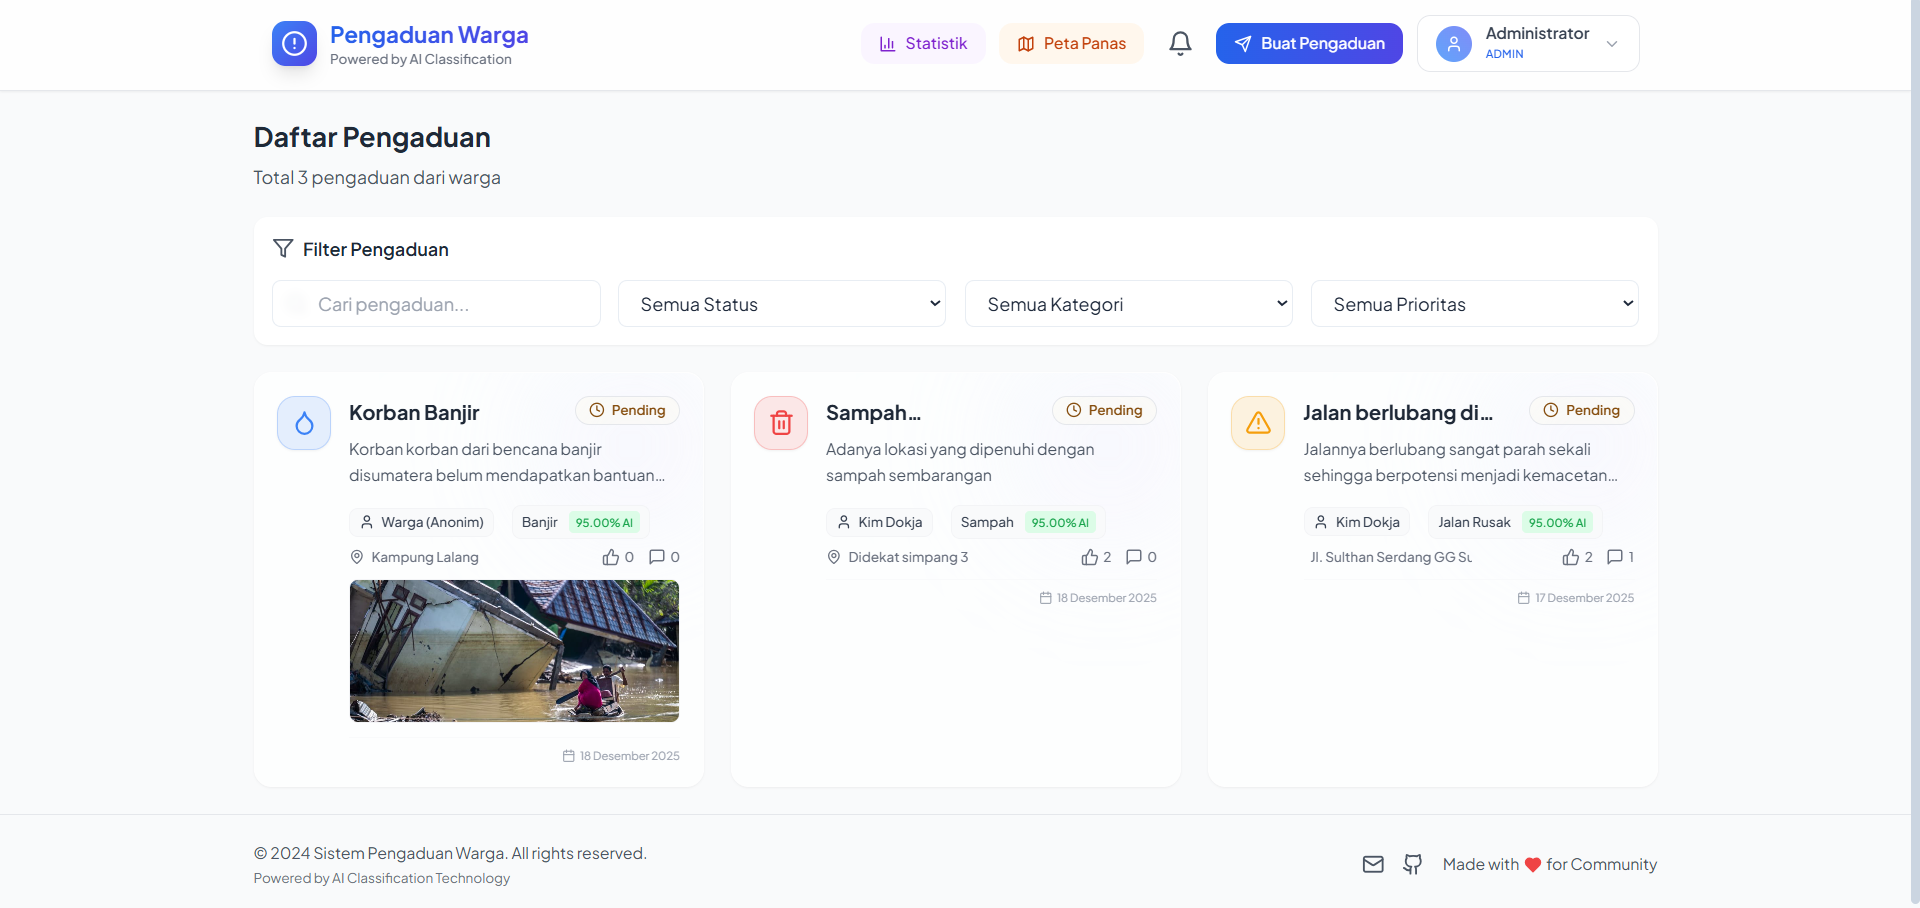
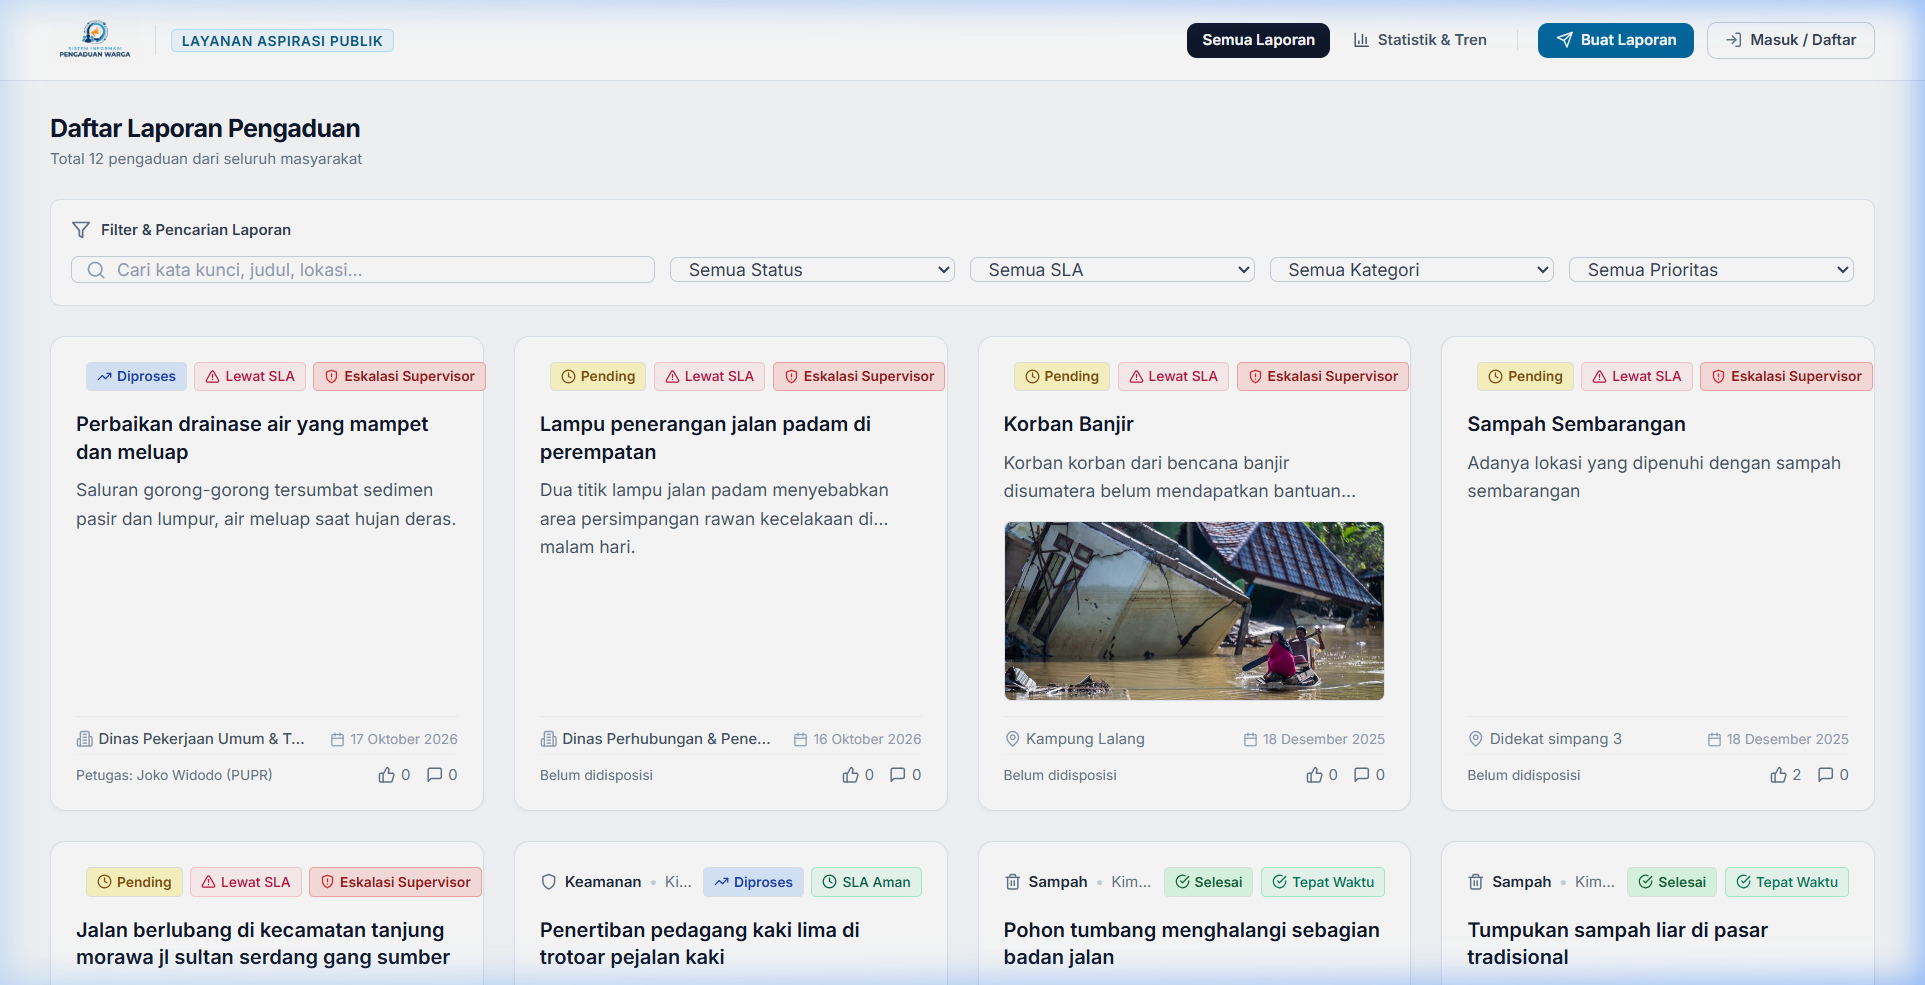
docs: update README and add preview assets

diff --git a/README.md b/README.md
@@ -1,113 +1,143 @@
-# Sistem Pengaduan Warga (SIPW)
+# Sistem Informasi Pengaduan Warga (SIPW)
 
-Sistem Informasi Pengaduan Warga modern dengan antarmuka **Premium Glassmorphism**, klasifikasi otomatis berbasis AI, dan visualisasi data **Heatmap**. Aplikasi ini memudahkan warga melaporkan masalah lingkungan (sampah, jalan rusak, banjir, dll) secara transparan dan responsif.
+<p align="center">
+  <img src="./assets/images/logo.png" alt="Logo SIPW" width="220" />
+</p>
 
-![Banner Preview](https://via.placeholder.com/1200x600?text=Sistem+Pengaduan+Warga+Preview)
+Sistem Informasi Pengaduan Warga (SIPW) adalah aplikasi web pelayanan publik untuk pelaporan, penelusuran status, disposisi tugas, dan pemantauan Service Level Agreement (SLA) penanganan masalah lingkungan perkotaan. 
 
-## 🚀 Fitur Unggulan
-
-### 🌟 User Experience (Warga)
-- **Civic UI (Taste Skill)**: Desain utilitas publik yang bersih, profesional, modern, bebas gradien berlebihan, dengan kontras keterbacaan tinggi.
-- **Timeline Kronologis Transparan**: Rekam jejak lengkap dari pelaporan, verifikasi, penugasan dinas, catatan perkembangan berkala, hingga bukti foto tindakan penyelesaian.
-- **Laporan Anonim Terlindungi**: Opsi anonim menjaga kerahasiaan identitas pelapor baik pada kartu laporan maupun jejak kronologi timeline.
-- **Pilihan Urgensi & Estimasi SLA**: Warga dapat melihat estimasi batas waktu penanganan secara transparan (24j - 120j).
-- **Pembukaan Kembali Laporan**: Warga dapat membuka kembali laporan yang selesai jika permasalahan di lapangan belum tuntas.
-- **Lokasi Presisi & Bukti Foto**: Pinpoint peta interaktif (Leaflet) dan upload foto kejadian dengan preview instan.
-
-### 🛡 Dashboard Operasional (Admin, Supervisor, & Petugas)
-- **SLA & Eskalasi Otomatis**: Sistem penghitungan batas waktu penanganan di backend dengan indikator aman, mendekati tenggat (< 12 jam), terlambat, dan auto-eskalasi ke Supervisor.
-- **Manajemen Disposisi & OPD**: Antrean disposisi cepat ke OPD (DLH, PUPR, DISHUB, SATPOL PP, dll) dan petugas lapangan disertai indikator beban kerja aktif (*workload balancing*).
-- **Tab Khusus Petugas ("Tugas Saya")**: Antarmuka terfokus bagi petugas untuk memperbarui progres penanganan, mencatat catatan internal/publik, dan mengunggah foto bukti penyelesaian.
-- **Audit Trail Pemindahan**: Riwayat lengkap aktor, waktu, catatan pengalihan, dan mutasi tugas tanpa menghapus riwayat lama.
-- **Heatmap Visual & Statistik**: Peta persebaran masalah lingkungan dan analitik kepatuhan SLA per departemen.
+Aplikasi ini menghubungkan masyarakat dengan instansi Organisasi Perangkat Daerah (OPD) seperti Dinas Lingkungan Hidup (DLH), Dinas Pekerjaan Umum (PUPR), Dinas Perhubungan (DISHUB), dan Satuan Polisi Pamong Praja (SATPOL PP).
 
 ---
 
-## 🛠 Teknologi yang Digunakan
+## Pratinjau Antarmuka
+
+### 1. Beranda & Daftar Laporan (Desktop Full-Width)
+Tata letak fluid hingga lebar 1720px dengan pembagian kolom adaptif, baris filter terpadu, dan kartu laporan yang terstruktur rapi.
+
+![Beranda Desktop](./assets/images/dashboard.png)
+
+### 2. Statistik & Tren Interaktif
+Grafik linier formal berbasis Recharts untuk memantau volume aduan masuk, laporan selesai, antrean proses, dan keterlambatan SLA dengan rentang waktu 7 hari hingga 12 bulan.
+
+![Statistik dan Tren](./assets/images/statistics.png)
+
+### 3. Kinerja Penanganan & Komparasi Antar-OPD
+Metrik rata-rata durasi penyelesaian (jam), rasio kepatuhan target SLA, serta diagram batang horizontal yang dapat diurutkan berdasarkan beban kerja atau tingkat ketuntasan.
+
+![Kinerja OPD](./assets/images/performance.png)
+
+### 4. Tampilan Mobile & Drawer Navigasi
+Dioptimalkan untuk layar ponsel (320px–430px) tanpa pergeseran horizontal (*zero overflow*), dilengkapi menu drawer samping dan kontrol formulir yang mudah disentuh.
+
+![Tampilan Mobile](./assets/images/mobile.png)
+
+---
+
+## Fitur Utama
+
+### Pelayanan Publik (Warga)
+- **Pelaporan Berbasis Peta & Bukti**: Penandaan titik lokasi dengan peta interaktif (Leaflet), alamat otomatis, dan unggah foto lampiran.
+- **Opsi Pelapor Anonim**: Melindungi identitas pelapor pada kartu laporan publik dan linimasa penanganan.
+- **Linimasa Kronologis**: Riwayat tahapan dari pelaporan, verifikasi, penugasan petugas, hingga bukti foto tindakan selesai.
+- **Keterbukaan SLA**: Menampilkan estimasi batas waktu penanganan secara transparan (24 jam hingga 120 jam sesuai tingkat urgensi).
+- **Pembukaan Kembali Laporan**: Warga dapat mengajukan pembukaan kembali jika kendala di lapangan belum tuntas.
+
+### Manajemen Operasional & Penugasan (Admin & Petugas)
+- **Pemantauan Batas Waktu SLA**: Klasifikasi otomatis status tenggat (*Aman*, *Mendekati Batas < 12 jam*, *Melewati SLA*, dan *Eskalasi Supervisor*).
+- **Disposisi Cepat ke OPD & Petugas**: Penugasan laporan ke dinas terkait dan petugas lapangan disertai pemantauan beban kerja aktif.
+- **Tab Khusus Petugas ("Tugas Saya")**: Antarmuka kerja bagi petugas untuk memperbarui progres, mencatat tindakan lapangan, dan mengunggah foto bukti penyelesaian.
+- **Audit Trail Pengalihan**: Pencatatan riwayat perpindahan tugas dan catatan internal antar-petugas.
+
+### Analisis Data & Aksesibilitas
+- **Grafik Tren Garis Linier**: Pilihan rentang waktu (7 Hari, 30 Hari, 90 Hari, 12 Bulan) dan opsi toggle kurva interpolasi halus vs garis linier presisi.
+- **Tabel Data Alternatif**: Mode tabel data terstruktur untuk pembaca layar (*screen reader*) sesuai standar aksesibilitas WCAG 2.1 AA.
+- **Peta Kepadatan Spasial (Heatmap)**: Pemetaan sebaran konsentrasi masalah lingkungan di seluruh wilayah administratif.
+
+---
+
+## Tumpukan Teknologi
 
 ### Frontend
-- **React 18** (Vite-based)
-- **Tailwind CSS** (Styling & Responsive Design)
-- **Framer Motion** & **Glass UI** (Animations & Effects)
-- **React Leaflet** (Maps & Heatmap)
-- **Lucide React** (Modern Icons)
-- **Axios** (API Client)
+- **React 18** (`react-scripts`)
+- **Tailwind CSS 3** (Sistem token warna *Civic Navy*, *Azure*, dan semantik status)
+- **Recharts 2.15** (Visualisasi data analitik)
+- **React Leaflet & Leaflet** (Peta spasial dan geolokasi)
+- **Lucide React** (Ikon antarmuka)
+- **Axios** (Klien HTTP API)
 
 ### Backend
-- **Node.js** & **Express** (REST API)
-- **PostgreSQL** (Database Relasional)
-- **Cloudinary** (Cloud Storage untuk Gambar)
-- **JWT** (Secure Authentication)
-- **Multer** (File Handling)
+- **Node.js** & **Express.js** (REST API)
+- **PostgreSQL** (Database relasional dengan agregasi SQL kontinu `generate_series`)
+- **JSON Web Token (JWT)** & **Bcrypt** (Autentikasi dan otorisasi role)
+- **Multer** & **Cloudinary** (Manajemen berkas dan foto lampiran)
 
 ---
 
-## 📋 Prasyarat Instalasi
+## Persyaratan Sistem
 
-Pastikan komputer Anda sudah terinstall:
-- **Node.js** (v16+)
-- **PostgreSQL** (v13+)
+Pastikan perangkat telah terpasang:
+- **Node.js** (versi 16 atau lebih baru)
+- **PostgreSQL** (versi 13 atau lebih baru)
 - **Git**
 
 ---
 
-## ⚡ Panduan Instalasi Cepat
+## Panduan Instalasi & Menjalankan Aplikasi
 
-### 1. Clone Repository
+### 1. Salin Repositori
 ```bash
 git clone https://github.com/drexjgobgt/si-pengduan-warga.git
 cd si-pengduan-warga
 ```
 
 ### 2. Konfigurasi Backend
-Masuk ke folder backend dan install dependencies:
+Masuk ke direktori backend dan instal dependensi:
 ```bash
 cd backend
 npm install
 ```
 
-Buat file `.env` di dalam folder `/backend`:
+Buat file konfigurasi `.env` di dalam folder `/backend`:
 ```env
 PORT=5000
 NODE_ENV=development
 
-# Database Config
+# Konfigurasi Database PostgreSQL
 DB_HOST=localhost
 DB_PORT=5432
 DB_NAME=pengaduan_warga
 DB_USER=postgres
-DB_PASSWORD=password_db_anda
+DB_PASSWORD=password_database_anda
 
-# Authentication
-JWT_SECRET=rahasia_super_secure_bisa_diganti
+# Autentikasi
+JWT_SECRET=kunci_rahasia_jwt_anda
 
-# Cloudinary (Untuk Upload Gambar)
-CLOUDINARY_CLOUD_NAME=nama_cloud_anda
+# Penyimpanan Cloudinary (Foto Lampiran)
+CLOUDINARY_CLOUD_NAME=cloud_name_anda
 CLOUDINARY_API_KEY=api_key_anda
 CLOUDINARY_API_SECRET=api_secret_anda
 
-# Email Service (Opsional - SMTP Gmail)
+# Layanan Notifikasi Email (Opsional)
 EMAIL_HOST=smtp.gmail.com
 EMAIL_PORT=587
 EMAIL_USER=email_anda@gmail.com
-EMAIL_PASS=app_password_gmail
+EMAIL_PASS=app_password_anda
 ```
 
-**Setup Database & Migrasi:**
-Jalankan migrasi database otomatis (Pastikan PostgreSQL sudah berjalan):
+Jalankan skrip migrasi database:
 ```bash
-# Jalankan runner migrasi otomatis (mencakup upload, reset password, SLA, OPD & disposisi)
 node database/migrations/run-migration.js
 ```
 
-Jalankan Server:
+Jalankan server backend:
 ```bash
 npm run dev
-# Server berjalan di: http://localhost:5000
+# Server aktif pada port: http://localhost:5000
 ```
 
 ### 3. Konfigurasi Frontend
-Buka terminal baru, masuk ke folder frontend:
+Buka terminal baru, masuk ke direktori frontend, lalu pasang dependensi:
 ```bash
 cd ../frontend
 npm install
@@ -118,46 +148,30 @@ Buat file `.env` di dalam folder `/frontend`:
 REACT_APP_API_URL=http://localhost:5000/api
 ```
 
-Jalankan Aplikasi:
+Jalankan aplikasi React:
 ```bash
-npm run dev
-# Akses aplikasi di: http://localhost:3000
+npm start
+# Antarmuka web dapat diakses di: http://localhost:3000
+```
+
+Untuk membangun versi produksi:
+```bash
+npm run build
 ```
 
 ---
 
-## 📸 Screenshots
+## Akun Demo Bawaan
 
-| Dashboard Utama | Detail Laporan (Map & Chart) |
-|:---:|:---:|
-| ![Dashboard](./assets/images/dashboard.png) | ![Detail Laporan](./assets/images/detail.png) |
-
-| Heatmap Wilayah (Admin) | Versi Mobile |
-|:---:|:---:|
-| ![Heatmap](./assets/images/heatmap.png) | ![Mobile View](./assets/images/mobile.png) |
-
----
-
-## 🔐 Akun Demo (Default)
-
-| Role | Email | Password |
-|:---|:---|:---|
-| **Admin** | `admin@pengaduan.local` | `admin123` |
-| **Petugas** | `petugas@pengaduan.local` | `admin123` |
-| **Warga** | *(Silakan Register Sendiri)* | - |
+| Peran | Alamat Email | Kata Sandi | Akses Utama |
+|:---|:---|:---|:---|
+| **Admin** | `admin@pengaduan.local` | `admin123` | Seluruh dashboard, disposisi OPD, analitik kinerja |
+| **Petugas** | `petugas@pengaduan.local` | `admin123` | Tab Tugas Saya, pembaruan status, unggah bukti |
+| **Supervisor** | `supervisor@pengaduan.local` | `admin123` | Eskalasi aduan lewat batas waktu, rekapitulasi SLA |
+| **Warga** | *Daftar mandiri via form* | *Sesuai pendaftaran* | Pelaporan aduan, pelacakan linimasa, ulasan |
 
 ---
 
-## 👥 Kontribusi
+## Lisensi
 
-Project ini dikembangkan untuk kebutuhan Open Source. Pull Request sangat dipersilakan!
-1. Fork repo ini
-2. Buat branch fitur (`git checkout -b fitur-keren`)
-3. Commit perubahan (`git commit -m 'Menambah fitur keren'`)
-4. Push ke branch (`git push origin fitur-keren`)
-5. Buat Pull Request
-
----
-
-**License**: MIT
-**Author**: Drexjgobgt & Team
+Proyek ini dirilis di bawah lisensi [MIT](LICENSE).
